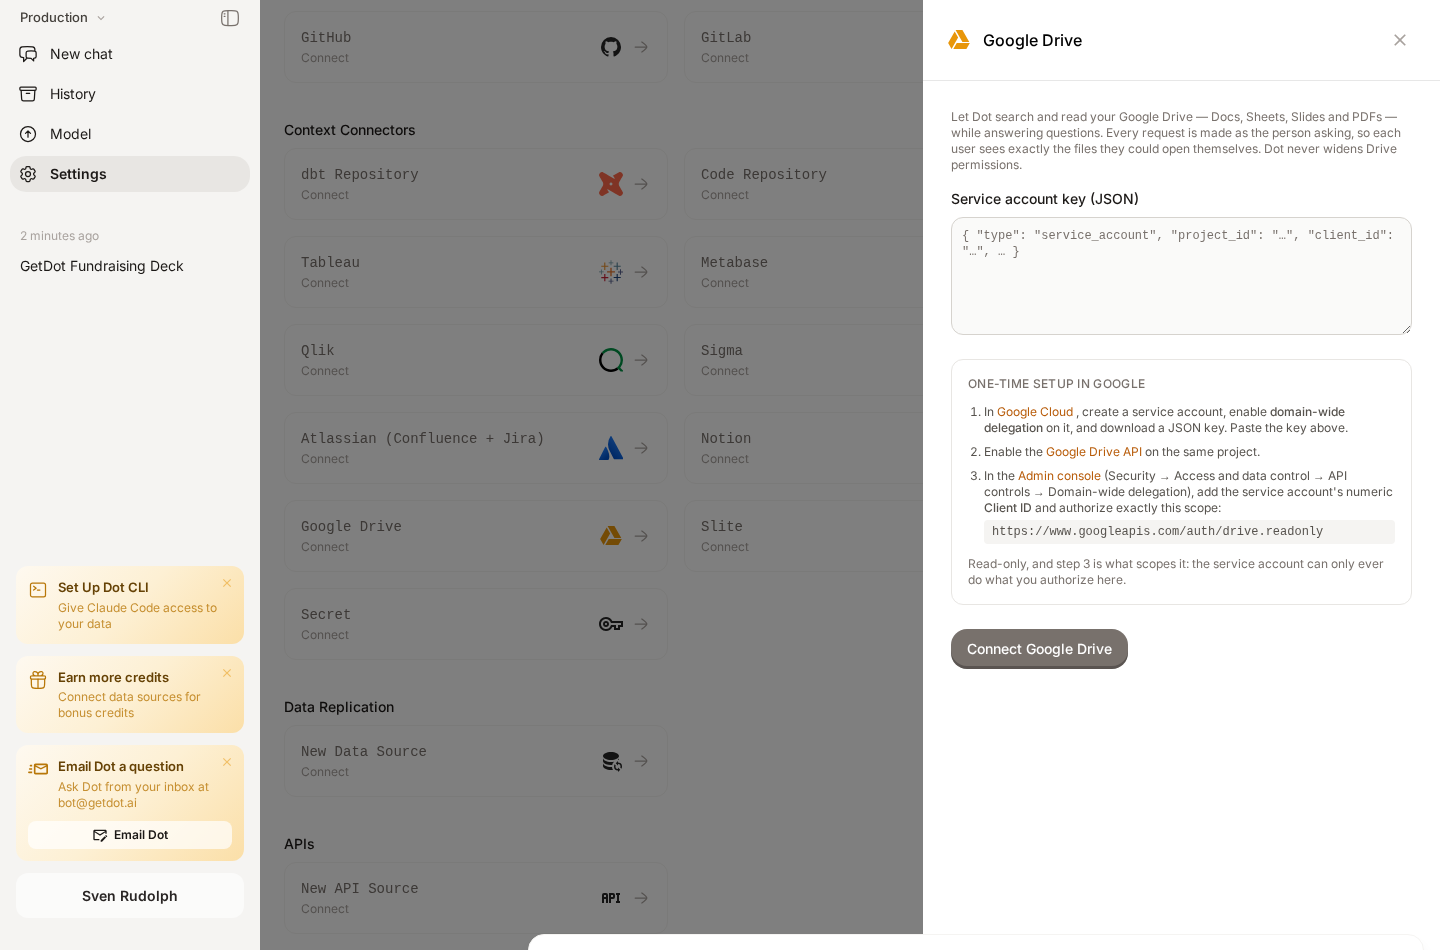
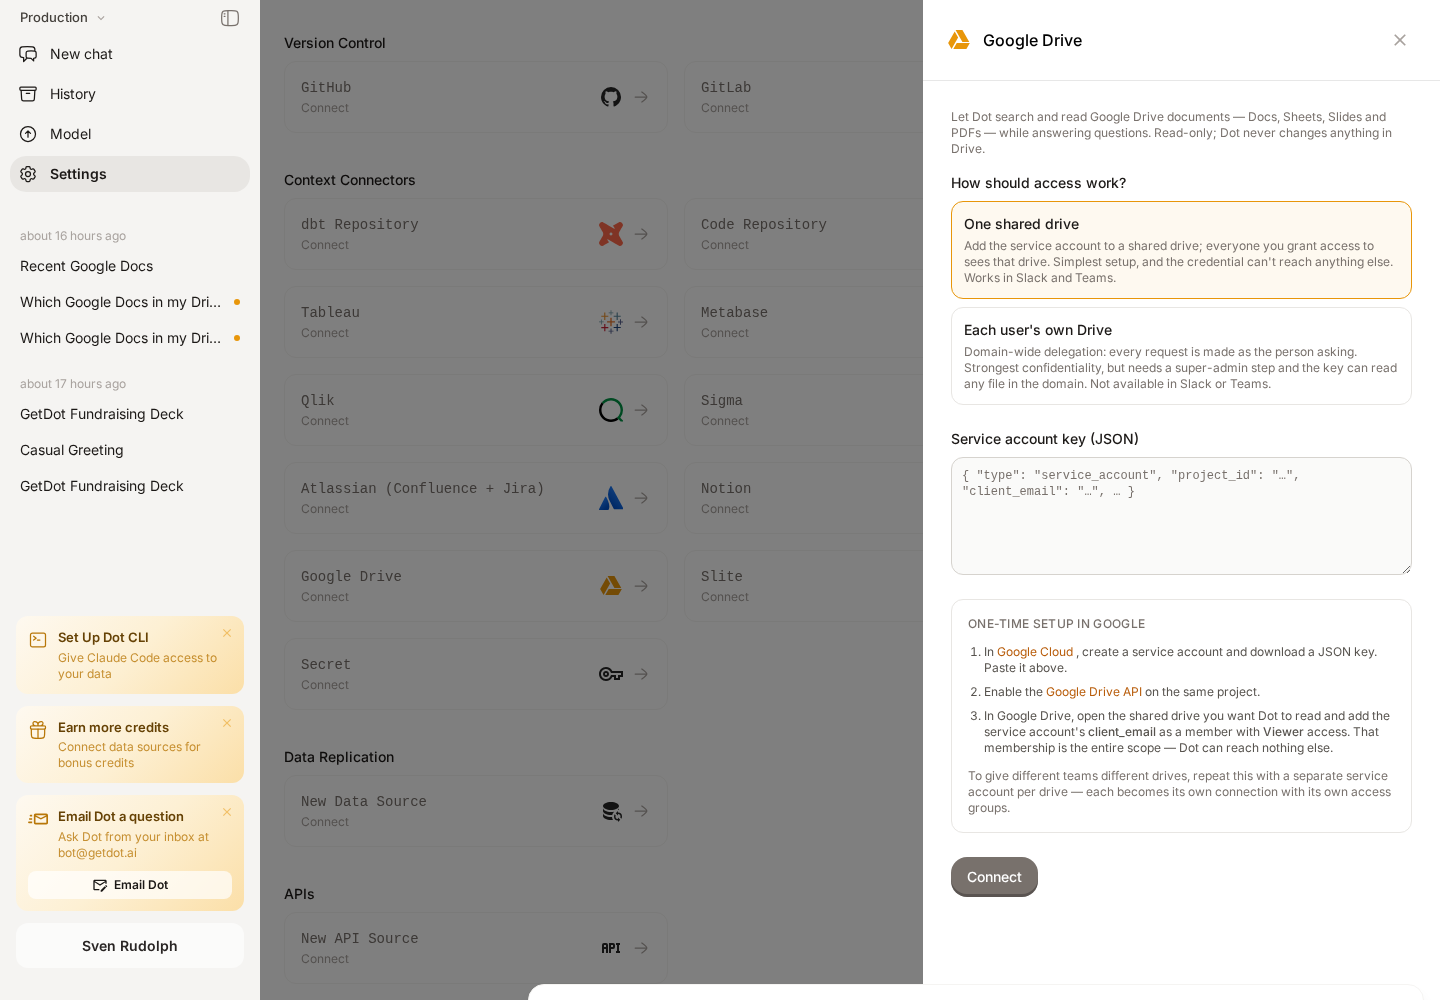
docs: Drive scoping is per shared drive by default
The page described domain-wide delegation as the only mode, which is no
longer the default and was the harder setup. Lead with one service
account per shared drive: no Workspace admin step, the credential can
reach nothing but that drive, and it works in Slack and Teams. Per-user
delegation stays documented as the option for companies that want
per-person confidentiality.

Screenshot refreshed to the mode picker.

diff --git a/dot/dot/integrations/knowledge-bases/google-drive.md b/dot/dot/integrations/knowledge-bases/google-drive.md
@@ -1,46 +1,58 @@
 ---
 description: >-
   Let Dot search and read your Google Drive — Docs, Sheets, Slides, and PDFs —
-  with every request made under the asking user's own Drive permissions.
+  scoped to exactly the drives you choose.
 ---
 
 # Google Drive
 
-Connect your [Google Drive](https://drive.google.com) so Dot can search across your documents and read them while answering questions — the pricing doc, the runbook, the QBR deck, the spec nobody can find.
+Connect [Google Drive](https://drive.google.com) so Dot can search across your documents and read them while answering questions — the pricing doc, the runbook, the QBR deck, the spec nobody can find.
 
 The connector is **read-only**. Dot never creates, edits, or deletes anything in Drive.
 
-## Every request runs as the person asking
+## Two ways to scope access
 
-This is the part worth understanding before you set it up.
+You choose per connection, when you connect. Most workspaces want the first.
 
-Dot does not hold one shared view of your Drive. Each Drive request is made **as the individual user asking the question**, so everyone sees exactly the files they could open in a browser — no more, no less. A restricted document stays restricted; a file nobody shared with someone simply doesn't appear in their results.
+### One shared drive (default)
 
-That also means Dot keeps no copy of your Drive permissions. Google evaluates access at the moment of each call, so there is nothing on Dot's side that can drift out of date when you change who can see what.
+You add a service account to **one shared drive**, and everyone you grant access to sees that drive. The credential can reach nothing else — not because Dot filters it, but because Google never gave it access to anything else.
+
+Different teams get different drives: repeat the setup with a **separate service account per drive**. Each becomes its own connection with its own Access Groups, so Finance sees the Finance drive and nobody else's.
 
 {% hint style="info" %}
-**Nothing is synced or copied.** Dot reads from Drive when a question needs it. Answers always reflect the current contents of a file, and access always reflects Drive's current sharing.
+**Why this is the default.** Dot chooses which credential to use; Google decides what that credential can see. Dot keeps no copy of your Drive permissions, so nothing can drift out of sync with them. It also needs no Workspace admin — adding a member to a shared drive is something any drive manager can do — and it works in Slack and Teams.
 {% endhint %}
+
+### Each user's own Drive
+
+Every request is made **as the person asking**, so each user sees exactly the files they could open in a browser. The strongest confidentiality, and the right answer for some companies.
+
+What it costs: a Workspace **super-admin** must authorize the service account, that key can then read any file in the domain, and it can't be used from Slack or Teams — those run under a shared bot identity, and this mode needs a specific person.
 
 ## Prerequisites
 
 - **Google Workspace** — personal Gmail accounts aren't supported.
-- A **Google Workspace super-admin**, who can authorize the connection in the Admin console.
 - A **Google Cloud project** to hold a service account.
 - A **Dot admin** account.
+- For per-user mode only: a **Google Workspace super-admin**.
 
-## Set up in Google
+## Set up
 
-### 1. Create a service account
+### 1. Create a service account (both modes)
 
-1. In [Google Cloud → Service accounts](https://console.cloud.google.com/iam-admin/serviceaccounts), create a service account (for example, `dot-drive`).
-2. Open it, go to **Keys → Add key → Create new key → JSON**, and download the key file.
-3. Note its numeric **Unique ID** — this is the client ID you'll need in step 3.
-4. Enable the [Google Drive API](https://console.cloud.google.com/apis/library/drive.googleapis.com) on the same project.
+1. In [Google Cloud → Service accounts](https://console.cloud.google.com/iam-admin/serviceaccounts), create a service account and download a **JSON key**.
+2. Enable the [Google Drive API](https://console.cloud.google.com/apis/library/drive.googleapis.com) on the same project.
 
-### 2. Authorize the connection
+### 2a. Shared drive mode
 
-In the Google Admin console, open [Domain-wide delegation](https://admin.google.com/ac/owl/domainwidedelegation) (**Security → Access and data control → API controls → Domain-wide delegation**) and click **Add new**:
+In Google Drive, open the shared drive you want Dot to read and add the service account's **`client_email`** as a member with **Viewer** access.
+
+That membership *is* the scope — there is nothing else to configure, and nothing else is reachable.
+
+### 2b. Per-user mode
+
+In the [Admin console](https://admin.google.com/ac/owl/domainwidedelegation) (**Security → Access and data control → API controls → Domain-wide delegation**), click **Add new**:
 
 | Field | Value |
 |---|---|
@@ -48,20 +60,22 @@ In the Google Admin console, open [Domain-wide delegation](https://admin.google.
 | OAuth scopes | `https://www.googleapis.com/auth/drive.readonly` |
 
 {% hint style="warning" %}
-**This entry is the real boundary, not the key file.** The service account can only ever do what you authorize here. Grant the read-only Drive scope and nothing else — anything you don't list is unavailable to Dot, permanently.
+**This entry is the boundary, not the key file.** The service account can only ever do what you authorize here. Grant the read-only Drive scope and nothing else.
 {% endhint %}
 
 ### 3. Connect in Dot
 
-Go to **Settings → Connections**, find **Google Drive** under **Context Connectors**, paste the JSON key, and click **Connect Google Drive**.
+Go to **Settings → Connections → Google Drive**, pick the mode, paste the key, and click **Connect**.
 
-<figure><img src="../../../.gitbook/assets/drive-connect-form.png" alt="The Google Drive connection form in Dot, showing the field for the service account key and the one-time Google setup steps"><figcaption><p>The connection form restates the Google setup, including the exact scope to authorize.</p></figcaption></figure>
+<figure><img src="../../../.gitbook/assets/drive-connect-form.png" alt="The Google Drive connection form in Dot, showing the choice between one shared drive and each user's own Drive, with the service account key field and setup steps"><figcaption><p>The setup steps change with the mode you pick.</p></figcaption></figure>
 
-Dot verifies the setup against Google **before saving**: it requests access as you and makes a real Drive call. Only if that succeeds is the connection stored, so a half-finished setup can't sit there looking connected and then fail for everyone later.
+Dot verifies against Google **before saving**. In shared mode, if the account hasn't been added to any shared drive, the connect is refused and the error names the exact address to add — so a half-finished setup can't sit there looking connected and then fail for everyone later.
 
-<figure><img src="../../../.gitbook/assets/drive-connected-verified.png" alt="The connected Google Drive card in Dot showing Delegation verified and the account it was confirmed with"><figcaption><p>A connection is only saved once Dot has actually read Drive with it.</p></figcaption></figure>
+<figure><img src="../../../.gitbook/assets/drive-connected-verified.png" alt="A connected Google Drive card in Dot showing the scope it was verified against"><figcaption><p>A connection is only saved once Dot has actually read Drive with it.</p></figcaption></figure>
 
-If something is missing, nothing is saved and the error names what to fix — including the exact client ID and scope to enter in step 2.
+### 4. Choose who can use it
+
+Set **Access Groups** on the connection. Only users in those groups can reach that drive through Dot.
 
 ## Using it
 
@@ -71,7 +85,7 @@ Just ask. Dot decides when Drive is relevant:
 - *"Which documents mention the Acme migration?"*
 - *"What changed in the onboarding runbook recently?"*
 
-Dot searches **Drive's own full-text index**, which covers the contents of Docs, Sheets, Slides, and PDFs — not just file names. Shared drives are included by default, since that's where most company documents live.
+Dot searches **Drive's own full-text index**, which covers the contents of Docs, Sheets, Slides and PDFs — not just file names. If you can reach several drives, one search covers all of them and each result says which drive it came from.
 
 ## What Dot can do
 
@@ -80,19 +94,19 @@ Each action is a separately governed permission under **Model → Skills → Dri
 | Permission | What it allows | Default |
 |---|---|---|
 | `drive.search` | Full-text search across Drive contents | On |
-| `drive.files.read` | Listing folders, file metadata, and reading file contents | On |
-| `drive.files.download` | Downloading a file to work with it (e.g. a PDF or spreadsheet) | On |
+| `drive.files.read` | Listing folders, file metadata, reading contents | On |
+| `drive.files.download` | Downloading a file to work with it | On |
 | `drive.permissions.read` | Seeing who a file is shared with | Off |
 
-To change a permission, open **Model → Skills**, expand the **Drive** skill, and toggle it. Each can also be scoped to specific user groups.
+Each can also be scoped to specific user groups.
 
 {% hint style="info" %}
-**Why sharing visibility defaults off.** *"Who else can see this file"* is a different and more sensitive question than *"what does this document say"* — useful for governance reviews, but not something to hand out by default. Turn it on when you need it.
+**Why sharing visibility defaults off.** *"Who else can see this file"* is a different and more sensitive question than *"what does this document say"* — useful for governance reviews, but not something to hand out by default.
 {% endhint %}
 
 ## How Dot reads your files
 
-Google Docs, Sheets, and Slides aren't ordinary files — they have no downloadable text of their own. Dot converts them on the fly:
+Google Docs, Sheets, and Slides have no downloadable text of their own, so Dot converts them on the fly:
 
 | File type | Dot reads it as |
 |---|---|
@@ -105,26 +119,28 @@ Google Docs, Sheets, and Slides aren't ordinary files — they have no downloada
 Long documents are read in pages, so Dot can work through a large file without losing the thread.
 
 {% hint style="warning" %}
-**For spreadsheet data, use the Google Sheets connection instead.** Drive reads a sheet's first tab as text, which is fine for context but not for analysis. If you want to filter, aggregate, or join spreadsheet data, connect it as a [data source](../databases/) so Dot can query it properly.
+**For spreadsheet data, use the Google Sheets connection instead.** Drive reads a sheet's first tab as text, which is fine for context but not for analysis. To filter, aggregate, or join spreadsheet data, connect it as a [data source](../databases/) so Dot can query it properly.
 {% endhint %}
 
 ## Limitations
 
 - **Read-only.** Dot cannot create, edit, or delete Drive files.
 - **Google Workspace only** — personal Gmail accounts aren't supported.
-- **Only real Workspace accounts.** A Dot user whose email isn't a Google account in your domain — an external collaborator, say — can't use Drive.
-- **Not available from Slack or Teams.** Those conversations run under a shared bot identity, and Drive access is always tied to a specific person. Ask in the Dot web app instead.
+- **A connection covers a whole shared drive.** Scoping to a folder within one isn't available.
 - **Sheets are read one tab at a time** (see above).
+- **Per-user mode only:** unavailable from Slack and Teams, and a Dot user whose email isn't a Google account in your domain can't use it.
 - Very large files are read up to a bounded size, and very large downloads are refused rather than truncated.
 
 ## Troubleshooting
 
 | Message | What it means | What to do |
 |---|---|---|
-| *Google would not issue Drive access for &lt;email&gt;* | The Admin console authorization is missing or incomplete, or that address isn't a Google account in your domain | Recheck step 2 — the client ID and scope must match exactly |
-| *Google rejected the delegated credentials* | The authorization was removed, or the key was revoked | Re-authorize in the Admin console, or reconnect with a new key |
-| *Action requires permission `drive.…`* | That action is switched off for this user | Enable it under **Model → Skills → Drive**, or grant it to one of their groups |
-| *Google denied access to this file for your account* | The **user** can't open that file in Drive | Ask the file's owner to share it. Dot can't widen Drive permissions — by design |
+| *has not been added to any shared drive* | The service account is a member of nothing | Add its `client_email` to the shared drive as a Viewer |
+| *can see N shared drives* | One account was added to several drives | Give each drive its own service account |
+| *Google would not issue Drive access for &lt;email&gt;* | Per-user mode: the Admin console authorization is missing, or that address isn't a Google account in your domain | Recheck the client ID and scope |
+| *Action requires permission `drive.…`* | That action is switched off for this user | Enable it under **Model → Skills → Drive** |
+| *Google denied access to this file* | The credential genuinely can't read it | Share the file with the service account, or with the user in per-user mode |
+| *Drive is unavailable in Slack and Teams* | Per-user mode has no individual to act as | Use a shared-drive connection, which works there |
 
 ## Related
 

diff --git a/dot/dot/integrations/knowledge-bases/README.md b/dot/dot/integrations/knowledge-bases/README.md
@@ -18,7 +18,7 @@ These are the connectors that answer the original ask behind this whole category
 | [Notion](notion.md) | Notion workspaces | Search, read pages & databases, create/update pages, comments |
 | [Confluence](confluence.md) | Atlassian Cloud wikis | Search, read, create/update pages, attachments, comments |
 | [Jira](jira.md) | Atlassian Cloud issues | Search, read, create/update/transition issues, comments |
-| [Google Drive](google-drive.md) | Google Workspace Drives | Search and read Docs, Sheets, Slides, PDFs — **read-only**, under each user's own Drive permissions |
+| [Google Drive](google-drive.md) | Google Workspace Drives | Search and read Docs, Sheets, Slides, PDFs — **read-only**, scoped per shared drive (or per user) |
 
 ## How they work
 
@@ -26,7 +26,7 @@ These are the connectors that answer the original ask behind this whole category
 
 **2. Govern each action, in Model → Skills.** Once connected, the connector appears as a **skill** under **Model → Skills**. Expand **Configure permissions** to see each action as its own toggle — an admin turns individual actions on or off. A disabled action is refused with a message naming the exact permission to flip, so nothing runs that you haven't allowed.
 
-**3. Dot uses it at query time.** Unlike a database sync, these connectors don't copy your content into Dot. Dot's agents reach into the source *when a question needs it* — searching, reading, or asking against the live workspace. This keeps answers current and means access always reflects live permissions in the source tool — those of the connected account, or for [Google Drive](google-drive.md), those of the individual user asking.
+**3. Dot uses it at query time.** Unlike a database sync, these connectors don't copy your content into Dot. Dot's agents reach into the source *when a question needs it* — searching, reading, or asking against the live workspace. This keeps answers current and means access always reflects live permissions in the source tool — those of the connected account, or for [Google Drive](google-drive.md), of whichever drive that connection was scoped to.
 
 {% hint style="info" %}
 **Permission defaults follow a simple rule.** Non-destructive reads (and, for Notion/Confluence/Jira, ordinary writes) default **on** — connecting the tool implies you want Dot to use it. Destructive or privacy-sensitive actions (delete, archive, listing workspace members) default **off** and must be turned on explicitly.
